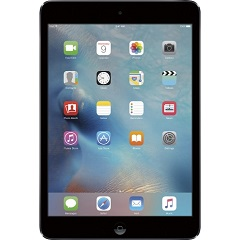
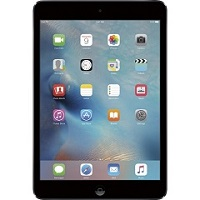
changed image sizes, added html for slides, css for size of each image.

diff --git a/apple-style-thumbslider/index.html b/apple-style-thumbslider/index.html
@@ -9,6 +9,15 @@
 	</head>
 
 	<body>
-		
+		<div id="container">
+			<header>
+				<div id="slides">
+					<div class="slide"><img src="img/1.jpg"></div>
+					<div class="slide"><img src="img/2.jpg"></div>
+					<div class="slide"><img src="img/3.jpg"></div>
+					<div class="slide"><img src="img/4.jpg"></div>
+				</div>
+			</header>
+		</div>
 	</body>
 </html>

diff --git a/apple-style-thumbslider/css/style.css b/apple-style-thumbslider/css/style.css
@@ -1,0 +1,4 @@
+.slide img {
+	width: auto;
+	height: 200px;
+}
